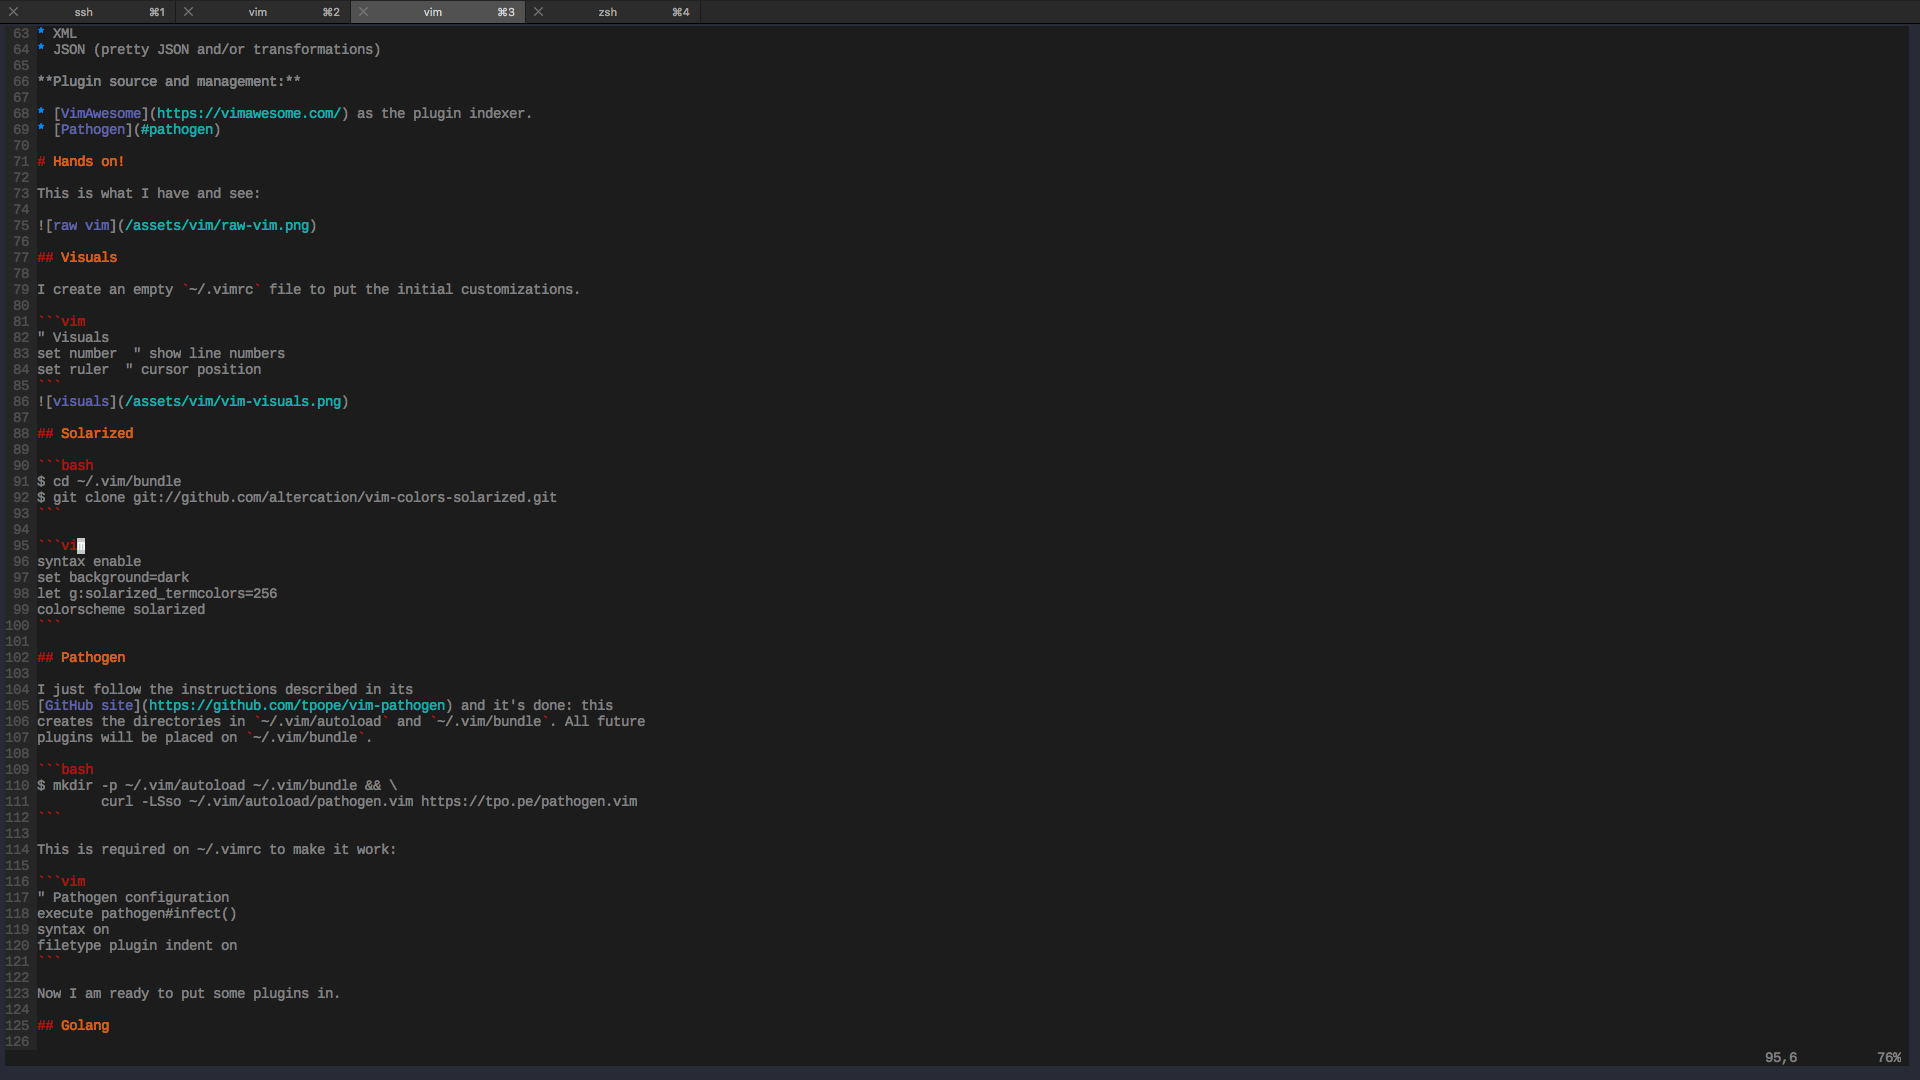
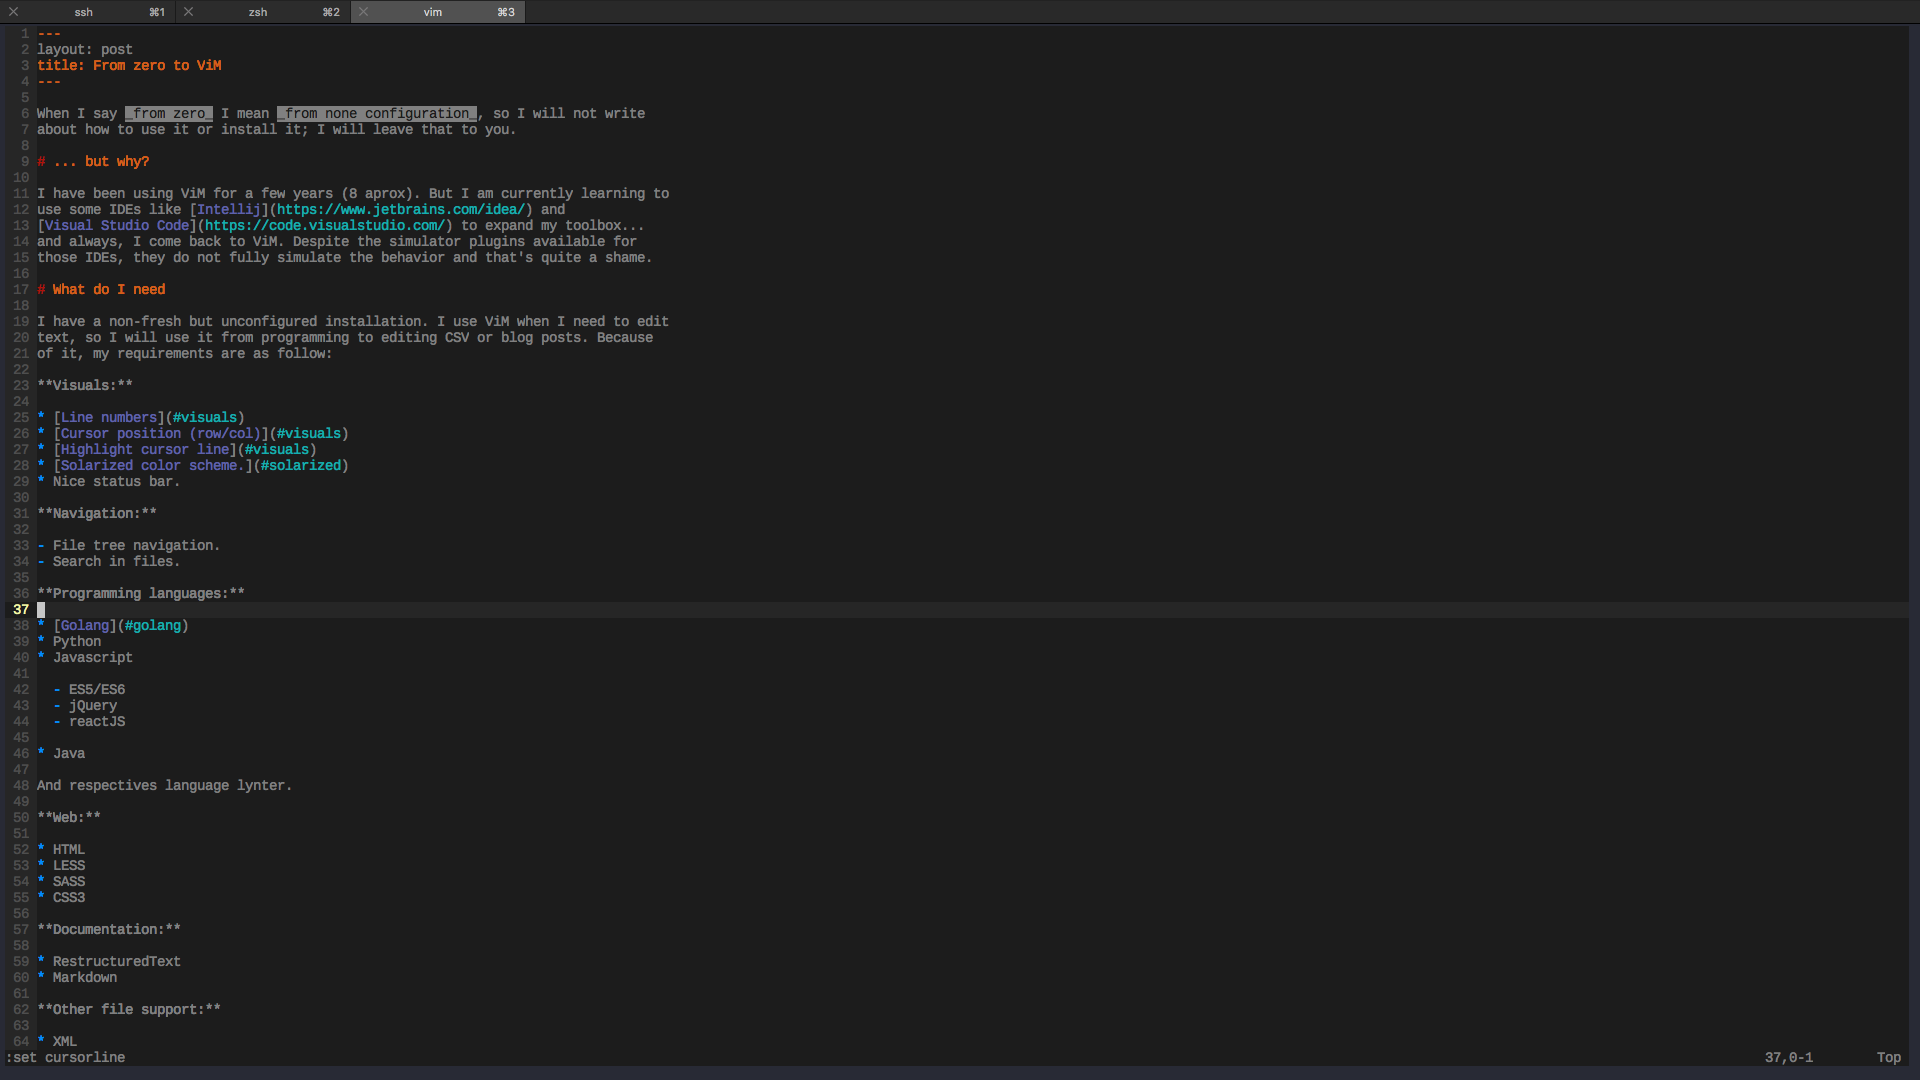
Adds cursor line highlight.

Changed region(s): [[0.0, 0.0306, 0.3438, 1.0]]

diff --git a/_posts/2018-11-30-from-zero-to-vim.md b/_posts/2018-11-30-from-zero-to-vim.md
@@ -24,6 +24,7 @@ of it, my requirements are as follow:
 
 * [Line numbers](#visuals)
 * [Cursor position (row/col)](#visuals)
+* [Highlight cursor line](#visuals)
 * [Solarized color scheme.](#solarized)
 * Nice status bar.
 
@@ -82,6 +83,7 @@ I create an empty `~/.vimrc` file to put the initial customizations.
 " Visuals
 set number  " show line numbers
 set ruler  " cursor position
+set cursorline  " highlight current line
 ```
 ![visuals](/assets/vim/vim-visuals.png)
 
